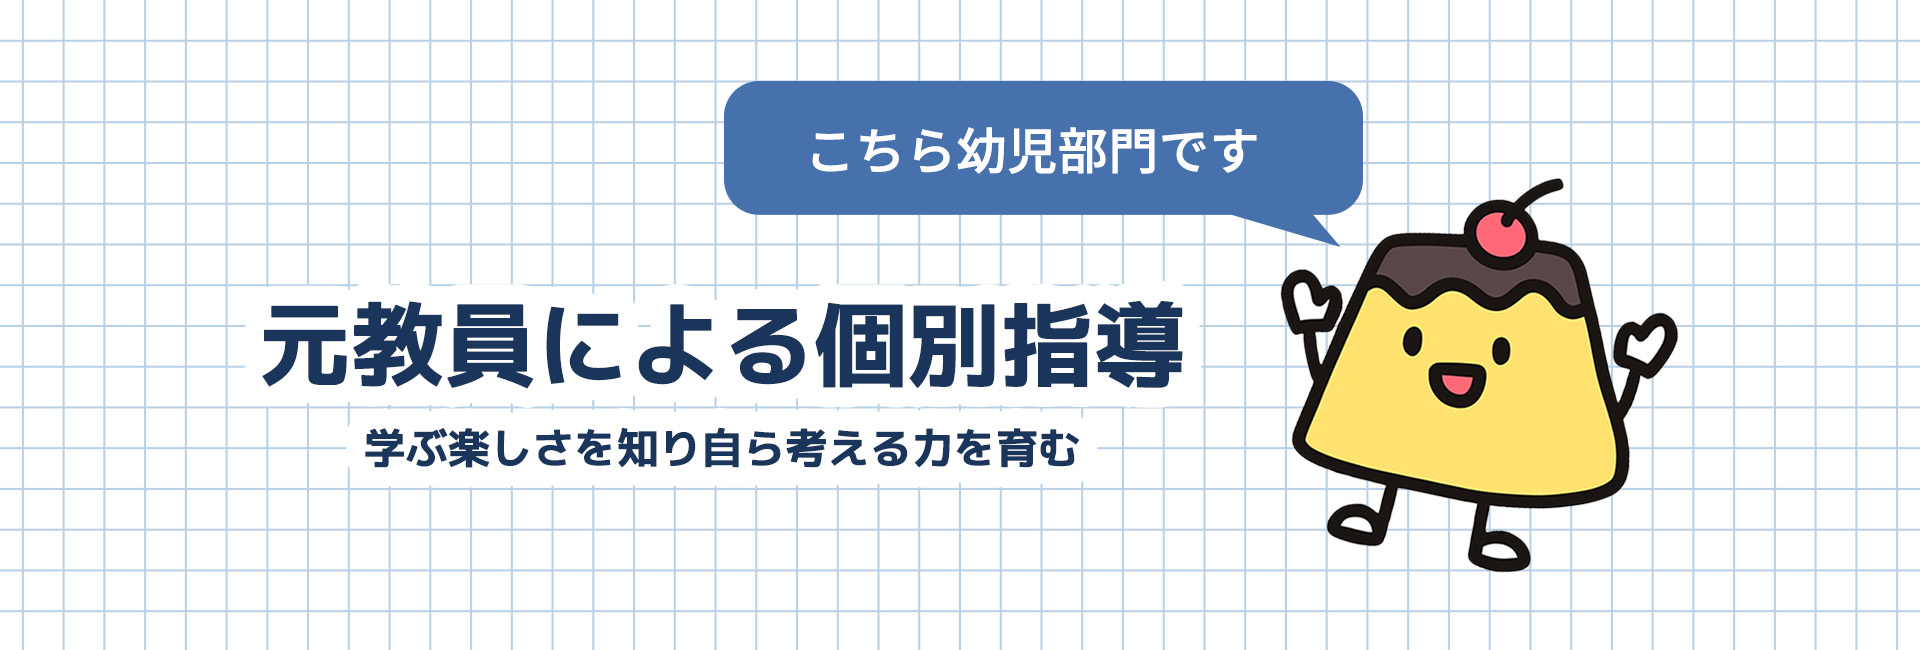
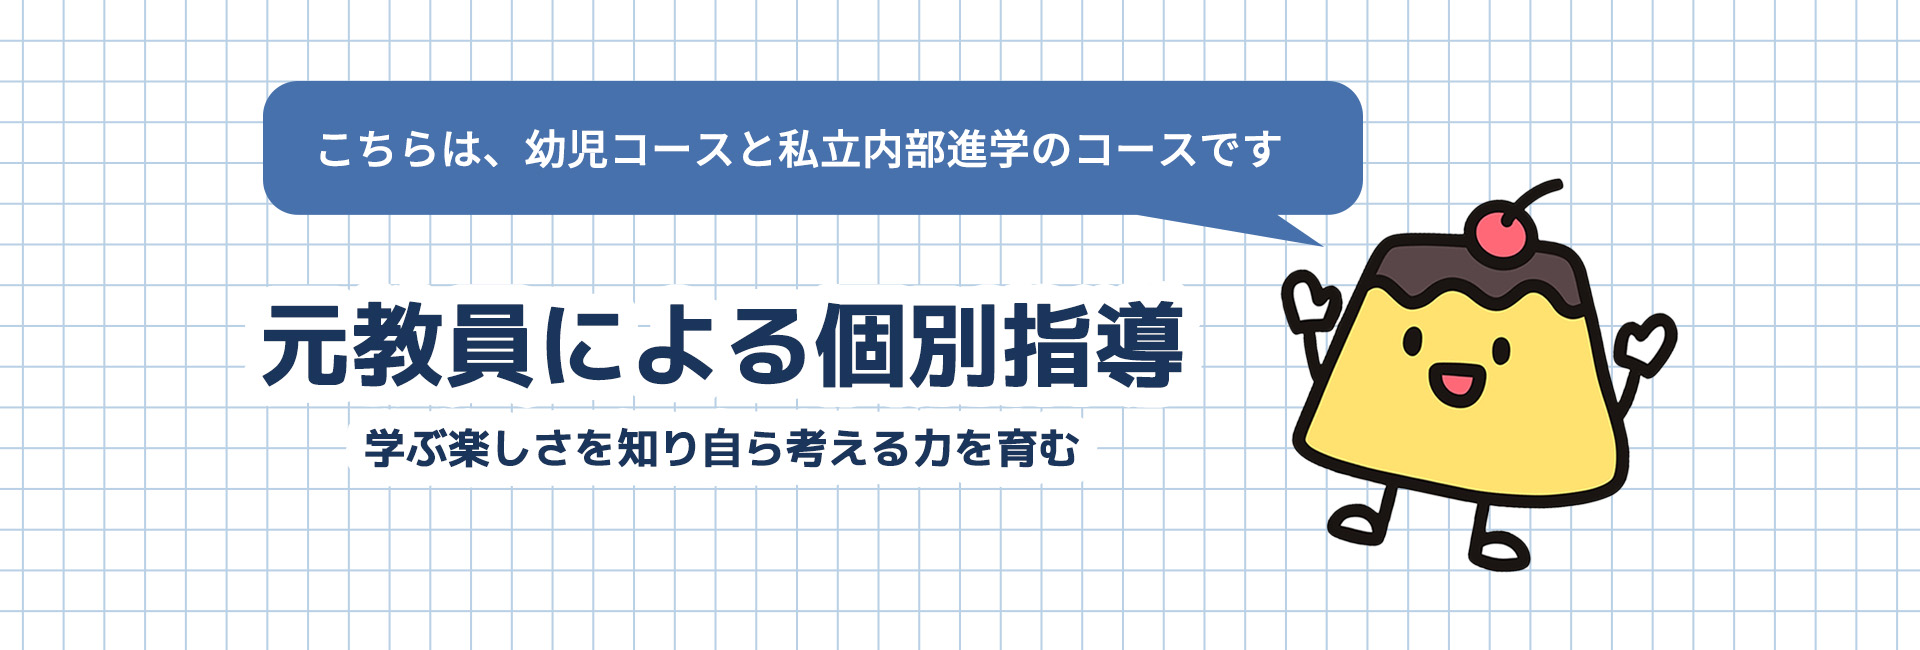
12/24.2030

Changed region(s): [[0.125, 0.1231, 0.6875, 0.3385], [0.5938, 0.3077, 0.7188, 0.3692]]

diff --git a/style.css b/style.css
@@ -1454,6 +1454,42 @@ a.footer-dept-link:hover {
     margin: 0 auto;
 }
 
+/* --- お問い合わせページ 送信ボタンの中央寄せ --- */
+.form-submit {
+    text-align: center;     /* 中のボタンを中央に寄せる */
+    margin-top: 40px;       /* 上の入力項目（プライバシーポリシー）との間隔 */
+}
+
+.form-submit .btn-submit {
+    display: inline-block;  /* 中央寄せを有効にするために inline-block に変更 */
+    width: 100%;
+    max-width: 350px;       /* ボタンが広がりすぎないように制限 */
+    padding: 18px;
+    background-color: var(--primary-color);
+    color: #fff;
+    border: none;
+    border-radius: 4px;
+    font-size: 1.1rem;
+    font-weight: 700;
+    cursor: pointer;
+    transition: opacity 0.3s;
+}
+
+.form-submit .btn-submit:hover {
+    opacity: 0.9;
+}
+
+/* スマホ用の微調整 */
+@media (max-width: 768px) {
+    .form-submit {
+        margin-top: 30px;
+    }
+    .form-submit .btn-submit {
+        width: 100%;        /* スマホでは画面幅いっぱいに（左右余白は残る） */
+        max-width: none;    /* スマホでは制限を解除 */
+    }
+}
+
 /* 任意のラベルもデザインを合わせる場合（任意） */
 .optional {
     display: inline-block;
@@ -1812,5 +1848,60 @@ main > section:last-of-type,
         width: 100%;
         max-width: 320px;
         box-sizing: border-box;
+    }
+}
+
+/* --- 体験談ページ 代表メッセージ --- */
+.representative-section {
+    padding: 60px 0 80px; /* 上下の余白 */
+    background-color: #fff; /* 背景は白にして清潔感を */
+}
+
+.representative-card {
+    background: #f0f5fa; /* ほんのり青みがかった背景色で優しさを演出 */
+    padding: 40px;
+    border-radius: 12px;
+    box-shadow: 0 4px 15px rgba(0,0,0,0.05);
+    max-width: 900px;
+    margin: 0 auto;
+}
+
+
+.representative-content {
+    margin-top: 20px;
+}
+
+
+.message-text {
+    font-size: 1.1rem;
+    line-height: 2;
+    color: #333;
+    margin-bottom: 30px;
+    /* 「」などで囲まず、自然な語りかけにするための余白 */
+}
+
+.representative-name {
+    text-align: right;
+    font-size: 1.1rem;
+    font-weight: bold;
+    color: var(--primary-color);
+}
+
+.representative-name span {
+    font-size: 1.3rem; /* お名前を少し大きく */
+    margin-left: 10px;
+}
+
+/* スマホ表示 */
+@media (max-width: 768px) {
+    .representative-card {
+        padding: 30px 20px;
+    }
+    .message-text {
+        font-size: 1rem;
+        line-height: 1.8;
+    }
+    .representative-name {
+        font-size: 1rem;
     }
 }

diff --git a/voice.html b/voice.html
@@ -44,7 +44,7 @@
         </div>
     </div>
 
-    <main class="voice-page bg-light-blue" style="padding: 60px 0;">
+    <main class="voice-page bg-light-blue" style="padding: 60px 0 0;">
         <div class="container">
             <div class="voice-full-list">
                 
@@ -90,6 +90,23 @@
     
             </div>
         </div>
+        <section class="representative-section">
+            <div class="container">
+                <div class="representative-card">
+                    <div class="card-header">
+                        <h3 class="section-accent-title">代表より感謝を込めて</h3>
+                    </div>
+                    <div class="representative-content">
+                        <p class="message-text">
+                            皆様、コメントをありがとうございます。頂きましたコメントを有難く、嬉しく読ませて頂きました。益々、生徒達のために、努力をし、頑張って参ります。よろしくお願い申し上げます。
+                        </p>
+                        <p class="representative-name">
+                            ラパン学習塾代表　<span>上重 智美</span>
+                        </p>
+                    </div>
+                </div>
+            </div>
+        </section>
     </main>
 
     <footer>
